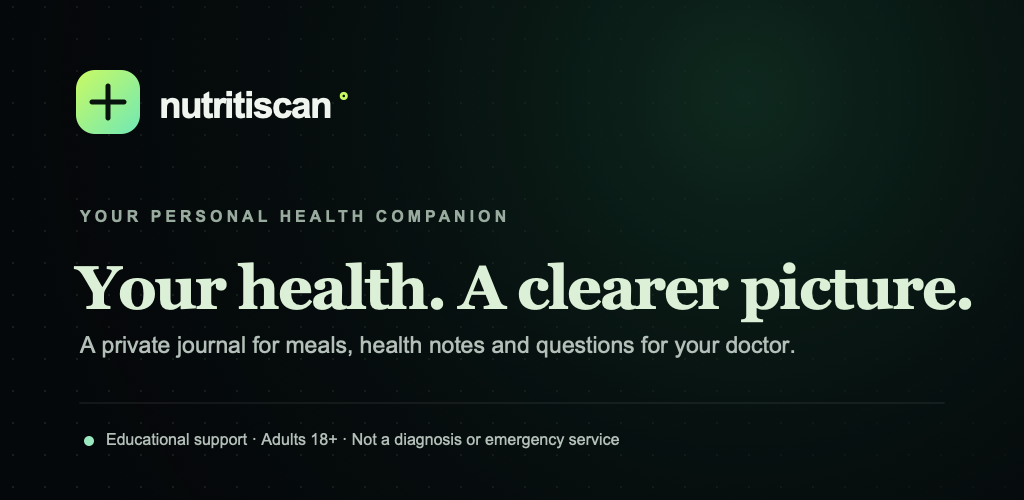
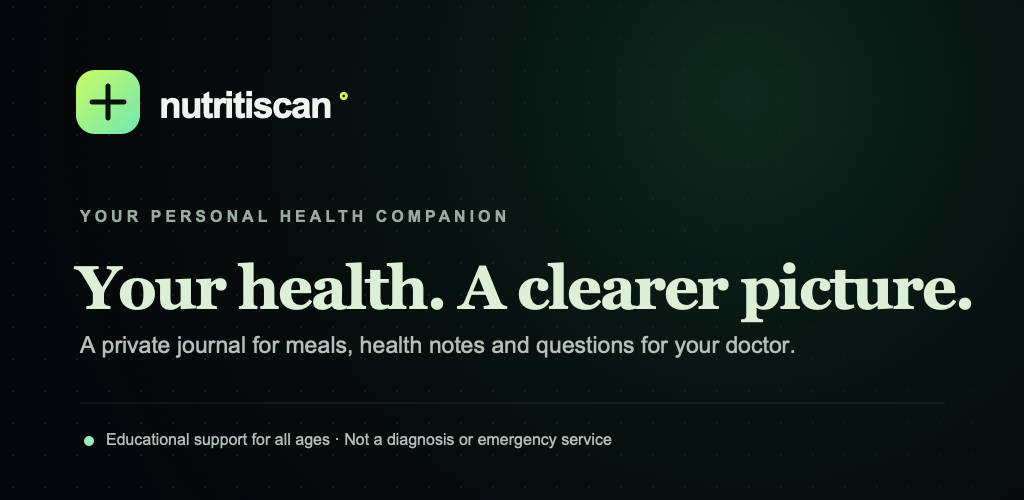
Remove adult-only gate and protect minor nutrition targets

Changed region(s): [[0.25, 0.87, 0.625, 0.9]]

diff --git a/src/app/cloud-health.tsx b/src/app/cloud-health.tsx
@@ -17,7 +17,7 @@ export default function CloudHealth() {
   const [available, setAvailable] = useState<boolean | null>(null);
   const [signedIn, setSignedIn] = useState(false);
   const [email, setEmail] = useState(""); const [password, setPassword] = useState("");
-  const [register, setRegister] = useState(false); const [adult, setAdult] = useState(false);
+  const [register, setRegister] = useState(false);
   const [storage, setStorage] = useState(false); const [cloud, setCloud] = useState(false);
   const [reports, setReports] = useState<Report[]>([]); const [selected, setSelected] = useState<Report | null>(null);
   const [candidates, setCandidates] = useState<Candidate[]>([]); const [compared, setCompared] = useState(false);
@@ -25,7 +25,7 @@ export default function CloudHealth() {
   const run = async (task: () => Promise<void>) => { if (busy) return; setBusy(true); setError(""); try { await task(); } catch (e) { setError(e instanceof Error ? e.message : "The request failed."); } finally { setBusy(false); } };
   const refresh = async () => { const result = await healthRequest("documents"); setReports(result.documents); };
   useEffect(() => { let active = true; healthRequest("status").then(async () => { if (!active) return; setAvailable(true); try { const c = await healthRequest("consent"); if (!active) return; setSignedIn(true); setStorage(c.storage); setCloud(c.cloud_ai); if (c.storage) { const d = await healthRequest("documents"); if (active) setReports(d.documents); } } catch { /* Sign-in remains visible. */ } }).catch(() => { if (active) setAvailable(false); }); return () => { active = false; }; }, []);
-  const signIn = () => run(async () => { await healthRequest(`auth/${register ? "register" : "login"}`, { method: "POST", body: JSON.stringify({ email, password, adult }) }); setPassword(""); setSignedIn(true); const c = await healthRequest("consent"); setStorage(c.storage); setCloud(c.cloud_ai); if (c.storage) await refresh(); });
+  const signIn = () => run(async () => { await healthRequest(`auth/${register ? "register" : "login"}`, { method: "POST", body: JSON.stringify({ email, password }) }); setPassword(""); setSignedIn(true); const c = await healthRequest("consent"); setStorage(c.storage); setCloud(c.cloud_ai); if (c.storage) await refresh(); });
   const upload = () => run(async () => { const result = await DocumentPicker.getDocumentAsync({ type: ["application/pdf", "image/png", "image/jpeg"], copyToCacheDirectory: true }); if (result.canceled) return; const file = result.assets[0]; if ((file.size ?? 0) > 10 * 1024 * 1024) throw new Error("Use a report smaller than 10 MB."); let body: FormData; if (Platform.OS === "web") { body = new FormData(); body.append("file", await (await fetch(file.uri)).blob(), file.name); } else body = uploadForm(file.uri, file.name, file.mimeType ?? "application/pdf"); await healthRequest("documents", { method: "POST", body }); await refresh(); });
   const review = (report: Report) => { setSelected(report); setCandidates(report.candidates.map((c) => ({ ...c }))); setCompared(false); setDate(""); };
   return <View style={{ flex: 1, backgroundColor: p.bg }}><ScreenHeader backTo="/" title="Reports & shared health" /><ScrollView contentContainerStyle={{ padding: spacing.lg, paddingBottom: 50 }} keyboardShouldPersistTaps="handled">
@@ -34,8 +34,8 @@ export default function CloudHealth() {
       <Text style={[type.h2, { color: p.text }]}>{register ? "Create your health account" : "Welcome back"}</Text>
       <FormField label="Email" value={email} onChangeText={setEmail} keyboardType="email-address" autoCapitalize="none" />
       <FormField label="Password (at least 12 characters)" value={password} onChangeText={setPassword} secureTextEntry />
-      {register && <Toggle checked={adult} label="I am 18 or older" onPress={() => setAdult(!adult)} />}
-      <Button title={busy ? "Please wait…" : register ? "Create account" : "Sign in"} variant="primary" disabled={busy || !email || password.length < 12 || (register && !adult)} onPress={signIn} style={{ marginTop: 18 }} />
+      {register && <Meta style={{ marginTop: 10 }}>Younger users should ask a parent or guardian to create and manage their account. Verified guardian consent for a child&apos;s health records is not available yet.</Meta>}
+      <Button title={busy ? "Please wait…" : register ? "Create account" : "Sign in"} variant="primary" disabled={busy || !email || password.length < 12} onPress={signIn} style={{ marginTop: 18 }} />
       <Button title={register ? "Already have an account? Sign in" : "New here? Create an account"} variant="quiet" onPress={() => setRegister(!register)} style={{ marginTop: 8 }} />
     </Card> : <>
       <Card style={{ padding: 18, marginTop: 22 }}><Eyebrow>Your choices</Eyebrow><Toggle checked={storage} label="Store my health records on NutritiScan’s private service" onPress={() => setStorage(!storage)} /><Toggle checked={cloud} label="Allow my records and voice audio to be processed by the configured AI provider" onPress={() => setCloud(!cloud)} /><Meta style={{ marginTop: 10 }}>AI processing is optional. Patient records are not used by NutritiScan for model training.</Meta><Button title="Save consent choices" disabled={busy} onPress={() => run(async () => { await healthRequest("consent", { method: "PUT", body: JSON.stringify({ storage, cloud_ai: cloud }) }); if (storage) await refresh(); })} style={{ marginTop: 14 }} /></Card>

diff --git a/src/app/health-profile.tsx b/src/app/health-profile.tsx
@@ -37,7 +37,7 @@ function ProfileForm({ profile }: { profile: HealthProfile | null }) {
     setSaving(true); setError("");
     try {
       if (name.trim().length < 2 || name.trim().length > 60) throw new Error("Enter a name between 2 and 60 characters.");
-      await saveProfile({ name: name.trim(), age: optionalNumber(age, "Age", 18, 120), heightCm: optionalNumber(height, "Height", 90, 250), weightKg: optionalNumber(weight, "Weight", 25, 350), allergies: csv(allergies), conditions: csv(conditions), goals: csv(goals) });
+      await saveProfile({ name: name.trim(), age: optionalNumber(age, "Age", 0, 120), heightCm: optionalNumber(height, "Height", 30, 250), weightKg: optionalNumber(weight, "Weight", 0.5, 350), allergies: csv(allergies), conditions: csv(conditions), goals: csv(goals) });
       if (router.canGoBack()) router.back(); else router.replace("/you");
     } catch (err) { setError(err instanceof Error ? err.message : "Could not save your profile. Try again."); requestAnimationFrame(() => scroll.current?.scrollToEnd({ animated: true })); }
     finally { setSaving(false); }
@@ -49,8 +49,9 @@ function ProfileForm({ profile }: { profile: HealthProfile | null }) {
       <Card style={{ marginTop: spacing.lg, padding: spacing.base }}>
         <Eyebrow>ABOUT YOU</Eyebrow>
         <FormField label="Name" value={name} onChangeText={setName} placeholder="What should we call you?" maxLength={60} autoComplete="name" />
-        <View style={{ flexDirection: "row", gap: spacing.md }}><View style={{ flex: 1 }}><FormField label="Age · 18+" value={age} onChangeText={setAge} placeholder="Optional" keyboardType="number-pad" maxLength={3} /></View><View style={{ flex: 1 }}><FormField label="Height · cm" value={height} onChangeText={setHeight} placeholder="Optional" keyboardType="decimal-pad" maxLength={6} /></View></View>
+        <View style={{ flexDirection: "row", gap: spacing.md }}><View style={{ flex: 1 }}><FormField label="Age · optional" value={age} onChangeText={setAge} placeholder="Optional" keyboardType="number-pad" maxLength={3} /></View><View style={{ flex: 1 }}><FormField label="Height · cm" value={height} onChangeText={setHeight} placeholder="Optional" keyboardType="decimal-pad" maxLength={6} /></View></View>
         <FormField label="Weight · kg" value={weight} onChangeText={setWeight} placeholder="Optional" keyboardType="decimal-pad" maxLength={6} />
+        <Meta style={{ marginTop: spacing.sm, lineHeight: 18 }}>If this profile is for someone under 18, a parent or guardian should help manage health information. Personalized nutrition targets are only calculated for adults.</Meta>
       </Card>
       <Card style={{ marginTop: spacing.md, padding: spacing.base }}>
         <Eyebrow>YOUR CONTEXT</Eyebrow>

diff --git a/src/app/ask/[id].tsx b/src/app/ask/[id].tsx
@@ -125,8 +125,8 @@ export default function Conversation() {
       >
         {!consent && <Card style={{ padding: 18, marginTop: 20 }}>
           <Text style={[type.h3, { color: p.text }]}>Choose before you chat</Text>
-          <Text style={[type.body, { color: p.text2, marginTop: 8 }]}>Your messages will go to NutritiScan’s server and its configured AI provider. Local profile and journal entries are not sent. When signed in to a shared account, the record tools use your confirmed shared records. Only share information you are comfortable processing this way. For adults 18+.</Text>
-          <Pressable onPress={approve} accessibilityRole="button" style={{ padding: 13, borderRadius: 99, backgroundColor: p.accent, alignItems: "center", marginTop: 14 }}><Text style={{ color: p.accentInk, fontWeight: "700" }}>I’m 18+ · Allow AI chat</Text></Pressable>
+          <Text style={[type.body, { color: p.text2, marginTop: 8 }]}>Your messages will go to NutritiScan’s server and its configured AI provider. Local profile and journal entries are not sent. When signed in to a shared account, the record tools use your confirmed shared records. Only share information you are comfortable processing this way. If you are under 18, ask a parent or guardian to review this before you continue.</Text>
+          <Pressable onPress={approve} accessibilityRole="button" style={{ padding: 13, borderRadius: 99, backgroundColor: p.accent, alignItems: "center", marginTop: 14 }}><Text style={{ color: p.accentInk, fontWeight: "700" }}>I understand · Allow AI chat</Text></Pressable>
           <Pressable onPress={() => router.push("/you")} accessibilityRole="button" style={{ padding: 12 }}><Text style={{ color: p.text2, textAlign: "center" }}>Keep using my local journal</Text></Pressable>
         </Card>}
         {error ? <Text accessibilityRole="alert" style={[type.meta, { color: p.attentionText, marginTop: 14 }]}>{error}</Text> : null}

diff --git a/src/app/(tabs)/you.tsx b/src/app/(tabs)/you.tsx
@@ -65,7 +65,7 @@ export default function You() {
         <View style={[styles.avatar, { backgroundColor: p.accentSoft }]}><Text style={{ color: p.accentText, fontSize: 15, fontWeight: "700" }}>{profile?.name.trim().split(/\s+/).map((part) => part[0]).slice(0, 2).join("").toUpperCase() || "?"}</Text></View>
         <View style={{ flex: 1, minWidth: 0 }}>
           <H1>{profile?.name || "Your profile"}</H1>
-          <Meta style={{ marginTop: 3 }}>{profile ? [profile.age ? `${profile.age} years` : null, profile.heightCm ? `${profile.heightCm} cm` : null, profile.weightKg ? `${profile.weightKg} kg` : null].filter(Boolean).join(" · ") || "Profile saved on this device" : "No profile details added yet"}</Meta>
+          <Meta style={{ marginTop: 3 }}>{profile ? [profile.age !== undefined ? `${profile.age} years` : null, profile.heightCm ? `${profile.heightCm} cm` : null, profile.weightKg ? `${profile.weightKg} kg` : null].filter(Boolean).join(" · ") || "Profile saved on this device" : "No profile details added yet"}</Meta>
         </View>
       </View>
 

diff --git a/docs/play-assets/render-feature-graphic.swift b/docs/play-assets/render-feature-graphic.swift
@@ -51,7 +51,7 @@ line("A private journal for meals, health notes and questions for your doctor.",
 
 bitmap.setStrokeColor(color(1, 1, 1, 0.12)); bitmap.setLineWidth(1); bitmap.move(to: CGPoint(x: 80, y: 97)); bitmap.addLine(to: CGPoint(x: 944, y: 97)); bitmap.strokePath()
 bitmap.setFillColor(color(0.60, 0.91, 0.75)); bitmap.fillEllipse(in: CGRect(x: 84, y: 54, width: 10, height: 10))
-line("Educational support · Adults 18+ · Not a diagnosis or emergency service", "ArialMT", 16, color(0.70, 0.75, 0.72), 106, 55)
+line("Educational support for all ages · Not a diagnosis or emergency service", "ArialMT", 16, color(0.70, 0.75, 0.72), 106, 55)
 
 let image = bitmap.makeImage()!
 let destination = CGImageDestinationCreateWithURL(output as CFURL, UTType.png.identifier as CFString, 1, nil)!

diff --git a/src/domain/healthData.ts b/src/domain/healthData.ts
@@ -30,8 +30,8 @@ function list(value: unknown) {
 }
 export function validateProfile(value: unknown): HealthProfile {
   const p = object(value);
-  return { name: text(p.name, "name", 60), age: number(p.age, "age", 18, 120),
-    heightCm: number(p.heightCm, "height", 90, 250), weightKg: number(p.weightKg, "weight", 25, 350),
+  return { name: text(p.name, "name", 60), age: number(p.age, "age", 0, 120),
+    heightCm: number(p.heightCm, "height", 30, 250), weightKg: number(p.weightKg, "weight", 0.5, 350),
     allergies: list(p.allergies), conditions: list(p.conditions), goals: list(p.goals), updatedAt: date(p.updatedAt) };
 }
 export function validateMeal(value: unknown): MealLog {

diff --git a/src/lib/health.ts b/src/lib/health.ts
@@ -121,9 +121,14 @@ export async function logWeight(
     .insert({ user_id: userId, weight_kg: weightKg });
   if (error) throw new Error(error.message);
 
-  const update: Record<string, unknown> = { weight_kg: weightKg };
+  const update: Record<string, unknown> = {
+    weight_kg: weightKg,
+    target_calories: null,
+    target_protein_g: null,
+    target_water_ml: null,
+  };
   if (
-    profile?.age &&
+    profile !== null && profile.age !== null && profile.age >= 18 &&
     profile.sex &&
     profile.height_cm &&
     profile.activity_level

diff --git a/src/engines/targets.ts b/src/engines/targets.ts
@@ -52,6 +52,10 @@ export function computeTargets(input: TargetInput): DailyTargets {
     weeklyPaceKg,
   } = input;
 
+  if (age < 18) {
+    throw new Error("Personalized nutrition targets are not calculated for users under 18.");
+  }
+
   // Mifflin-St Jeor. For "other", average the male/female constants.
   const sexConstant = sex === "male" ? 5 : sex === "female" ? -161 : -78;
   const bmr = 10 * weightKg + 6.25 * heightCm - 5 * age + sexConstant;

diff --git a/docs/google-play-testing.md b/docs/google-play-testing.md
@@ -2,7 +2,7 @@
 
 `NutritiScan.aab` is a signed Android App Bundle for Play Console. The separate `Play-Upload-Certificate.pem` is public; register it as the upload certificate when Play Console asks. Keep the private upload key and password out of source control. SHA-256 hashes are in `SHA256SUMS`.
 
-This beta is an educational adult health journal and public-question prototype. The shared report service, account-backed health records, report parsing, and consent-based voice transcription remain unavailable until their backend and provider are configured. Local profile, meals, history and conversations are stored on-device without NutritiScan encryption. The public chat uses the configured website service only after explicit consent; do not submit real health information while clinical review and the shared service are incomplete.
+This beta is an educational health journal and public-question prototype for all ages. Younger users should involve a parent or guardian before sharing personal health information. The shared report service, account-backed health records, report parsing, and consent-based voice transcription remain unavailable until their backend and provider are configured. Local profile, meals, history and conversations are stored on-device without NutritiScan encryption. The public chat uses the configured website service only after explicit consent; do not submit real health information while clinical review and the shared service are incomplete.
 
 Google Play requires the Health Apps declaration, an active public privacy-policy URL, an accurate Data safety form, and disclosure and consent for health-sensitive permissions. Select Nutrition and Weight Management and Health Information as applicable to the final shipped features. Describe the product as educational; it does not diagnose, prescribe, recommend treatment or replace a clinician. Complete the console forms against the actual tested build.
 
@@ -16,7 +16,7 @@ First upload the bundle to an internal or closed test track. If the Play develop
 
 **Full description:**
 
-NutritiScan gives adults a calm place to keep health notes, meals and questions for a doctor visit.
+NutritiScan gives people and families a calm place to keep health notes, meals and questions for a doctor visit.
 
 In this early-access build you can:
 
@@ -29,7 +29,9 @@ The private cloud account, report uploads, lab report interpretation and voice t
 
 Your on-device journal is stored in app storage and is not encrypted by NutritiScan. Do not store information you would not want someone with access to your unlocked device to see. Chat messages are sent to the website service only after you choose to allow AI chat; that service may forward them to a configured AI provider. Review the privacy policy before sending a message.
 
-For adults 18 and older.
+For all ages. Younger users should ask a parent or guardian to review privacy and consent before sharing personal health information. The current release does not include verified parental consent for a child’s shared health records.
+
+**Play Console release note:** Declaring children in the target audience triggers Google Play Families requirements. Review the current Families policy, child-directed API/SDK restrictions, health-app declaration and Data safety disclosures before submitting an all-ages listing. The current release has not completed that review.
 
 **Category:** Health & Fitness
 

diff --git a/docs/android-release-notes.md b/docs/android-release-notes.md
@@ -10,4 +10,4 @@ Included:
 
 The shared FastAPI service must be deployed and connected to the website to activate private cloud reports and shared account features. The app shows its connection status. Public chat also depends on the matching web update being deployed. An unavailable AI service is disclosed rather than presented as a personal assessment.
 
-Educational prototype for adults 18+. Not a diagnosis, prescription or emergency service. The engineering safety rules have not completed clinical validation. Local journal and conversation storage are not encrypted by NutritiScan. No real patient data is included in this release.
+Educational prototype for all ages. Younger users should involve a parent or guardian when sharing personal health information. Not a diagnosis, prescription or emergency service. The engineering safety rules have not completed clinical validation. Local journal and conversation storage are not encrypted by NutritiScan. No real patient data is included in this release.

diff --git a/README.md b/README.md
@@ -1,6 +1,6 @@
 # NutritiScan · Android
 
-NutritiScan is a conversation-first educational health companion for adults 18+, built with Expo SDK 57 and React Native. The midnight/lime/mint design and plus mark match [nutritiscan.com](https://nutritiscan.com).
+NutritiScan is a conversation-first educational health companion for people and families of all ages, built with Expo SDK 57 and React Native. Younger users should involve a parent or guardian when sharing personal health information. The midnight/lime/mint design and plus mark match [nutritiscan.com](https://nutritiscan.com).
 
 [Download the Android APK](https://github.com/Adarsh-9182/nutritiscan/releases) from GitHub Releases. The signed standalone APK includes its JavaScript bundle; Expo Go is not needed.
 
